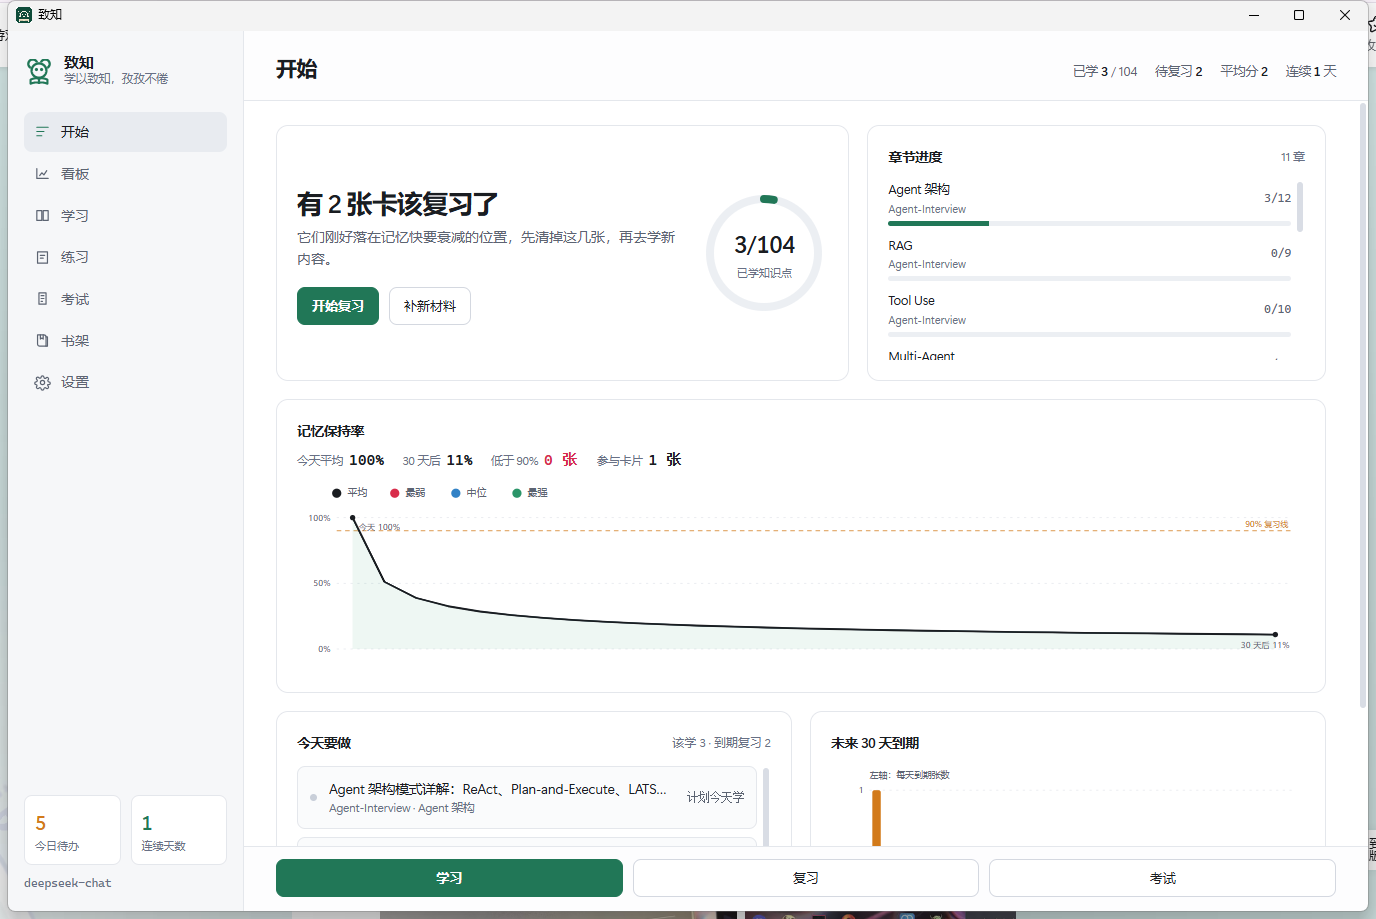
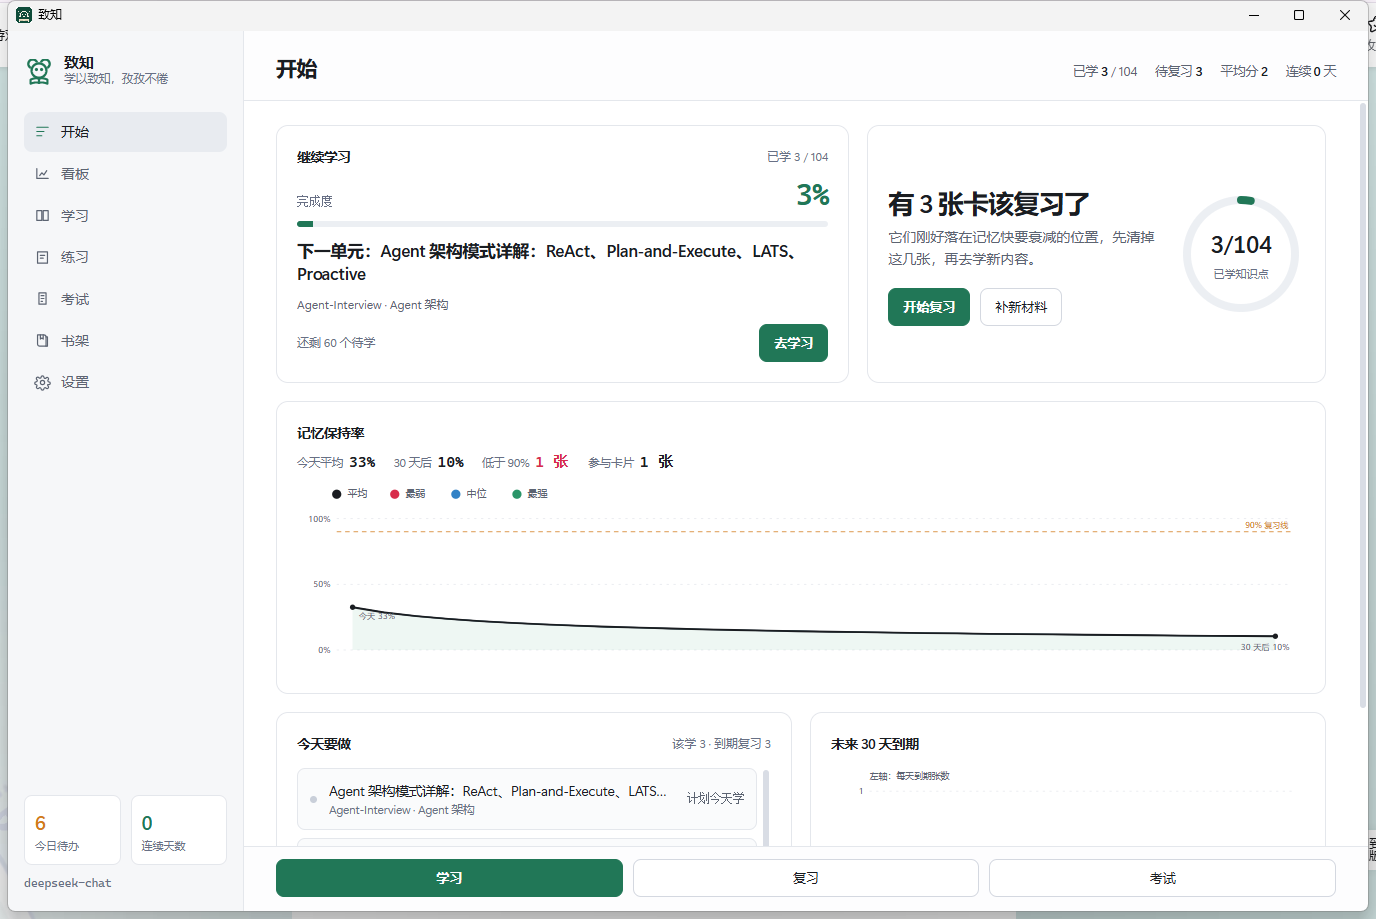
首页：章节进度换成「继续学习」跳转卡片并与复习卡片换位；更新守护脚本不再弹控制台

diff --git a/src/app.js b/src/app.js
@@ -284,7 +284,7 @@ function renderToday() {
       (due.length ? '到期复习 ' + due.length : '')
     : '今天没有安排';
   renderTodoList();
-  renderChapters();
+  renderStudyCta();
   renderStartCharts();
 }
 
@@ -336,23 +336,43 @@ function playTodoDone(list) {
   }, 780);
 }
 
-/* 右侧章节进度：按材料 + 章节显示已学 / 总数 */
-function renderChapters() {
-  const chapters = (state.overview && state.overview.chapters) || [];
-  if (!chapters.length) {
-    el('chapterHint').textContent = '';
-    el('chapterList').innerHTML = '<div class="empty">导入材料后，这里按章节显示进度</div>';
+/* 继续学习：进度 + 下一单元 + 一键跳学习页 */
+function renderStudyCta() {
+  const s = state.queue.stats || {};
+  const fresh = state.queue.fresh || [];
+  const total = s.cards || 0;
+  const learned = s.learned || 0;
+  const pct = total ? Math.round((learned / total) * 100) : 0;
+  const next = fresh[0];
+
+  if (!total) {
+    el('studyHint').textContent = '';
+    el('studyCta').innerHTML =
+      '<div class="study-cta">' +
+      '<div class="study-cta-top"><span class="study-cta-kicker">还没有知识点</span></div>' +
+      '<h3 class="study-cta-title">导入一份资料，拆成可学的单元</h3>' +
+      '<p class="study-cta-sub">网页链接、主题搜索、PDF / Word / Markdown 或直接粘贴</p>' +
+      '<div class="study-cta-foot"><span class="study-cta-left"></span>' +
+      '<button class="btn btn-primary" data-action="go-import">去导入</button></div></div>';
     return;
   }
-  el('chapterHint').textContent = chapters.length + ' 章';
-  el('chapterList').innerHTML = chapters.map((chapter) => {
-    const pct = chapter.total ? Math.round((chapter.learned / chapter.total) * 100) : 0;
-    return '<div class="chapter-row">' +
-      '<div class="chapter-text"><span class="chapter-name">' + escapeHtml(chapter.section || '未分类') +
-      '</span><span class="chapter-sub">' + escapeHtml(chapter.material) + '</span></div>' +
-      '<span class="chapter-count">' + chapter.learned + '/' + chapter.total + '</span>' +
-      '<div class="bar"><span style="width:' + pct + '%"></span></div></div>';
-  }).join('');
+
+  el('studyHint').textContent = '已学 ' + learned + ' / ' + total;
+  el('studyCta').innerHTML =
+    '<div class="study-cta">' +
+    '<div class="study-cta-top">' +
+    '<span class="study-cta-kicker">完成度</span>' +
+    '<span class="study-cta-pct">' + pct + '%</span></div>' +
+    '<div class="bar"><span style="width:' + pct + '%"></span></div>' +
+    (next
+      ? '<h3 class="study-cta-title">下一单元：' + escapeHtml(next.title) + '</h3>' +
+        '<p class="study-cta-sub">' + escapeHtml(next.materialTitle || '') +
+        (next.section ? ' · ' + escapeHtml(next.section) : '') + '</p>'
+      : '<h3 class="study-cta-title">全部知识点都学过了</h3>' +
+        '<p class="study-cta-sub">接下来靠复习和考试巩固</p>') +
+    '<div class="study-cta-foot">' +
+    '<span class="study-cta-left">' + (next ? '还剩 ' + fresh.length + ' 个待学' : '') + '</span>' +
+    '<button class="btn btn-primary" data-action="go-learn">去学习</button></div></div>';
 }
 
 /* 两张图来自后端 start_overview：到期量与记忆保持率 */

diff --git a/src/styles.css b/src/styles.css
@@ -171,20 +171,37 @@ body {
 .today-top .block + .block,
 .today-bottom .block + .block { margin-top: 0; }
 .today-top .focus { flex: 1; align-items: center; }
-.chapter-list {
+.study-cta {
   display: flex;
   flex-direction: column;
   gap: 10px;
-  max-height: 180px;
-  overflow-y: auto;
-  padding-right: 4px;
+  flex: 1;
+  min-height: 0;
 }
-.chapter-row { display: grid; grid-template-columns: minmax(0, 1fr) auto; gap: 4px 10px; align-items: center; }
-.chapter-text { display: flex; flex-direction: column; min-width: 0; }
-.chapter-name { font-size: 12.5px; color: var(--fg); overflow: hidden; text-overflow: ellipsis; white-space: nowrap; }
-.chapter-sub { font-size: 11px; color: var(--fg-dim); overflow: hidden; text-overflow: ellipsis; white-space: nowrap; }
-.chapter-count { font-size: 11.5px; color: var(--fg-muted); font-family: var(--font-mono); }
-.chapter-row .bar { grid-column: 1 / -1; height: 5px; }
+.study-cta-top { display: flex; align-items: baseline; justify-content: space-between; gap: 10px; }
+.study-cta-kicker { font-size: 12px; color: var(--fg-dim); font-family: var(--font-mono); }
+.study-cta-pct {
+  font-size: 30px;
+  font-weight: 600;
+  letter-spacing: -0.04em;
+  line-height: 1;
+  color: var(--accent);
+  font-family: var(--font-mono);
+}
+.study-cta-title {
+  margin: 2px 0 0;
+  font-size: 17px;
+  font-weight: 600;
+  letter-spacing: -0.02em;
+  line-height: 1.35;
+  overflow: hidden;
+  display: -webkit-box;
+  -webkit-line-clamp: 2;
+  -webkit-box-orient: vertical;
+}
+.study-cta-sub { margin: 0; font-size: 12px; color: var(--fg-muted); overflow: hidden; text-overflow: ellipsis; white-space: nowrap; }
+.study-cta-foot { display: flex; align-items: center; justify-content: space-between; gap: 12px; margin-top: auto; }
+.study-cta-left { font-size: 12px; color: var(--fg-dim); }
 .today-retention { margin-top: 18px; }
 .retention-stats { display: flex; flex-wrap: wrap; gap: 18px; margin-bottom: 8px; }
 .retention-stat { display: inline-flex; align-items: baseline; gap: 6px; font-size: 11.5px; color: var(--fg-dim); }

diff --git a/src/index.html b/src/index.html
@@ -71,14 +71,14 @@
       <section class="view" data-view="today">
         <div class="today-scroll">
           <div class="today-top">
-            <div class="block" id="todayFocus"></div>
-            <div class="block" id="chapterBlock">
+            <div class="block" id="studyBlock">
               <div class="block-head">
-                <h2>章节进度</h2>
-                <span class="block-hint" id="chapterHint"></span>
+                <h2>继续学习</h2>
+                <span class="block-hint" id="studyHint"></span>
               </div>
-              <div class="chapter-list" id="chapterList"></div>
+              <div id="studyCta"></div>
             </div>
+            <div class="block" id="todayFocus"></div>
           </div>
 
           <div class="block chart-card today-retention">

diff --git a/src-tauri/src/lib.rs b/src-tauri/src/lib.rs
@@ -276,17 +276,22 @@ fn apply_update(app: tauri::AppHandle, path: String) -> Result<(), String> {
     let script = temp.join("zhizhi-update.bat");
     let pid = std::process::id();
     let body = format!(
-        "@echo off\r\nsetlocal\r\n:wait\r\ntasklist /FI \"PID eq {pid}\" 2>nul | find \"{pid}\" >nul\r\nif not errorlevel 1 (\r\n  timeout /t 1 /nobreak >nul\r\n  goto wait\r\n)\r\ncopy /Y \"{new}\" \"{cur}\" >nul\r\nstart \"\" \"{cur}\"\r\ndel \"%~f0\"\r\n",
+        "@echo off\r\nsetlocal\r\n:wait\r\ntasklist /FI \"PID eq {pid}\" 2>nul | find \"{pid}\" >nul\r\nif not errorlevel 1 (\r\n  ping -n 2 127.0.0.1 >nul\r\n  goto wait\r\n)\r\ncopy /Y \"{new}\" \"{cur}\" >nul\r\nstart \"\" \"{cur}\"\r\ndel \"%~f0\"\r\n",
         pid = pid,
         new = staged.display(),
         cur = current.display()
     );
     std::fs::write(&script, body).map_err(err_str)?;
     let target = script.to_string_lossy().to_string();
-    std::process::Command::new("cmd")
-        .args(["/C", "start", "/min", "", &target])
-        .spawn()
-        .map_err(err_str)?;
+    {
+        use std::os::windows::process::CommandExt;
+        const CREATE_NO_WINDOW: u32 = 0x0800_0000;
+        std::process::Command::new("cmd")
+            .args(["/C", &target])
+            .creation_flags(CREATE_NO_WINDOW)
+            .spawn()
+            .map_err(err_str)?;
+    }
     app.exit(0);
     Ok(())
 }
@@ -297,10 +302,15 @@ fn open_url(url: String) -> Result<(), String> {
     if !url.starts_with("https://github.com/") {
         return Err("只允许打开 GitHub 链接".into());
     }
-    std::process::Command::new("cmd")
-        .args(["/C", "start", "", &url])
-        .spawn()
-        .map_err(err_str)?;
+    {
+        use std::os::windows::process::CommandExt;
+        const CREATE_NO_WINDOW: u32 = 0x0800_0000;
+        std::process::Command::new("cmd")
+            .args(["/C", "start", "", &url])
+            .creation_flags(CREATE_NO_WINDOW)
+            .spawn()
+            .map_err(err_str)?;
+    }
     Ok(())
 }
 
